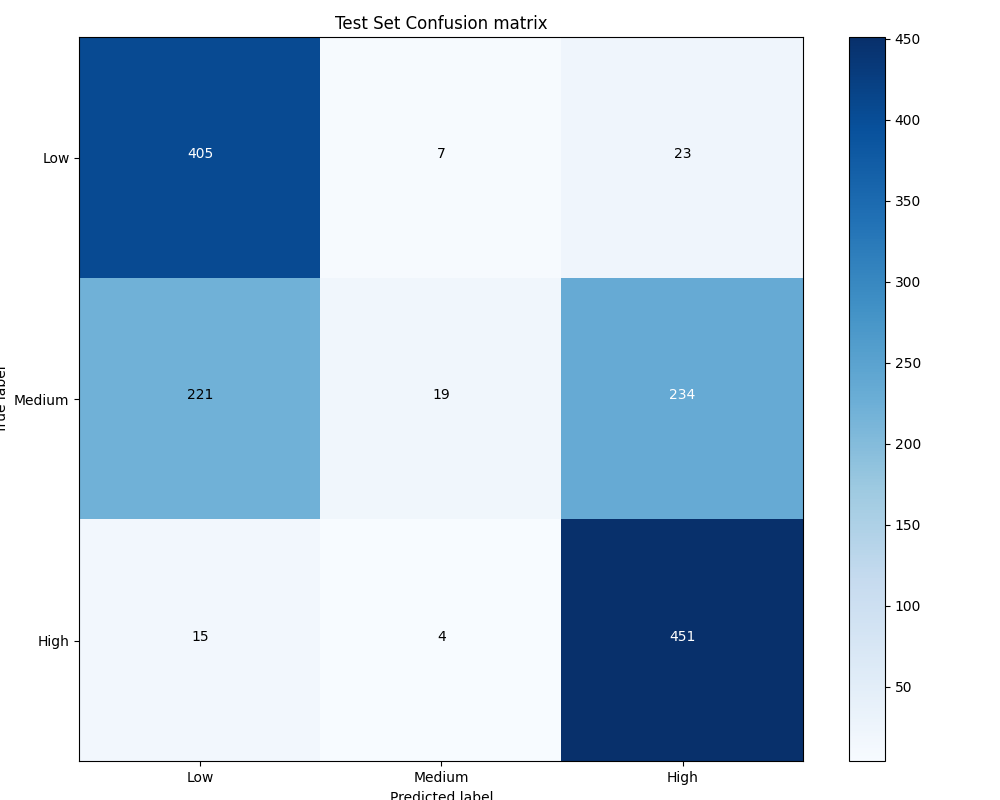
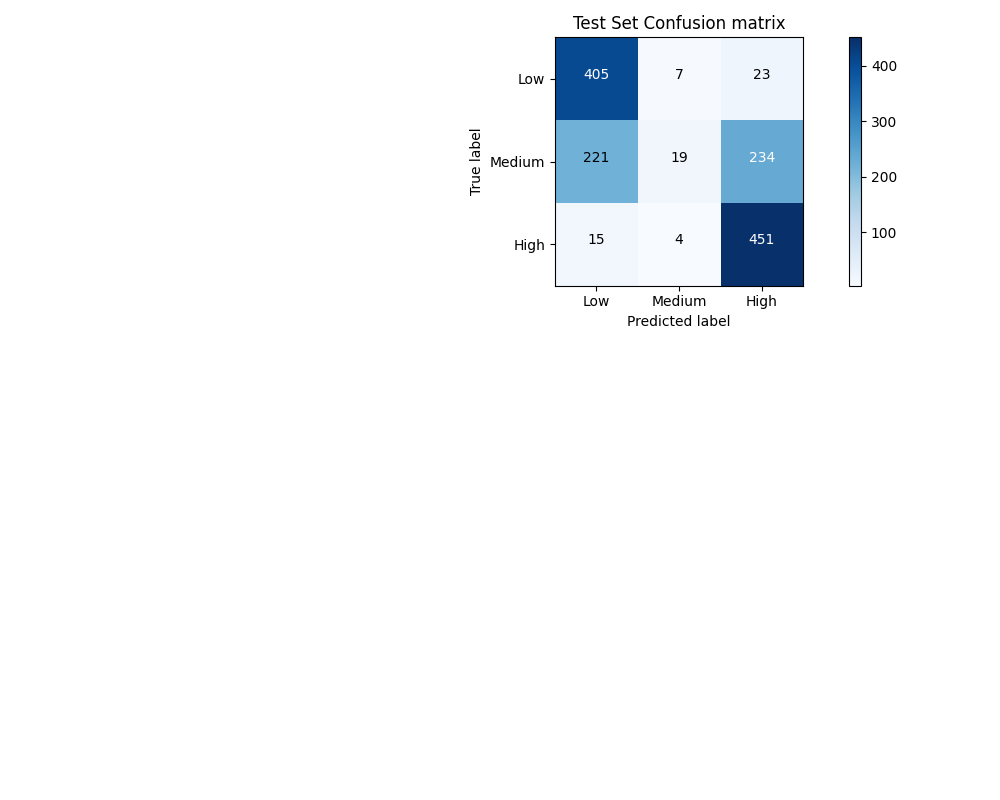
fix images scaling

diff --git a/LondonCrimes/SingleLayerLondonCrime.py b/LondonCrimes/SingleLayerLondonCrime.py
@@ -52,7 +52,7 @@ def plot_confusion(cm, classes,
     This function prints and plots the confusion matrix.
     Normalization can be applied by setting `normalize=True`.
     """
-    fig = plt.figure(figsize=(10, 8))
+    fig = plt.figure(figsize=(13, 10))
     plt.imshow(cm, interpolation='nearest', cmap=cmap)
     plt.title(title)
     plt.colorbar()
